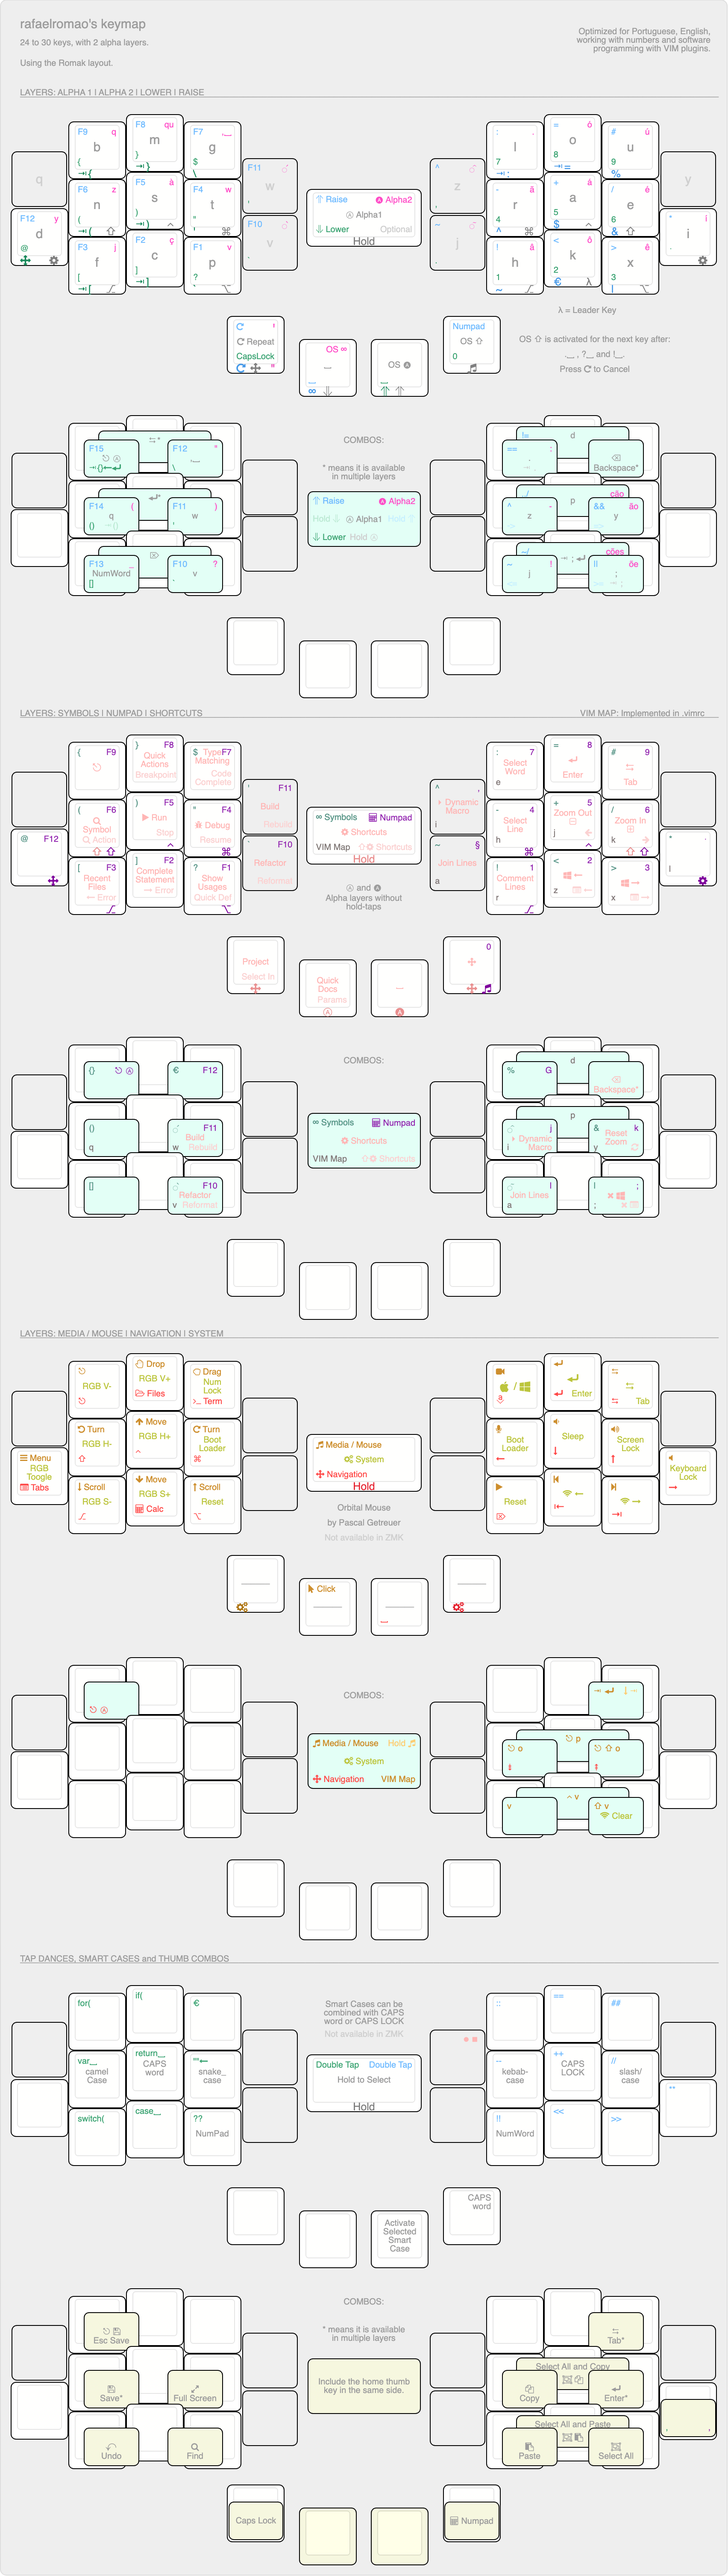
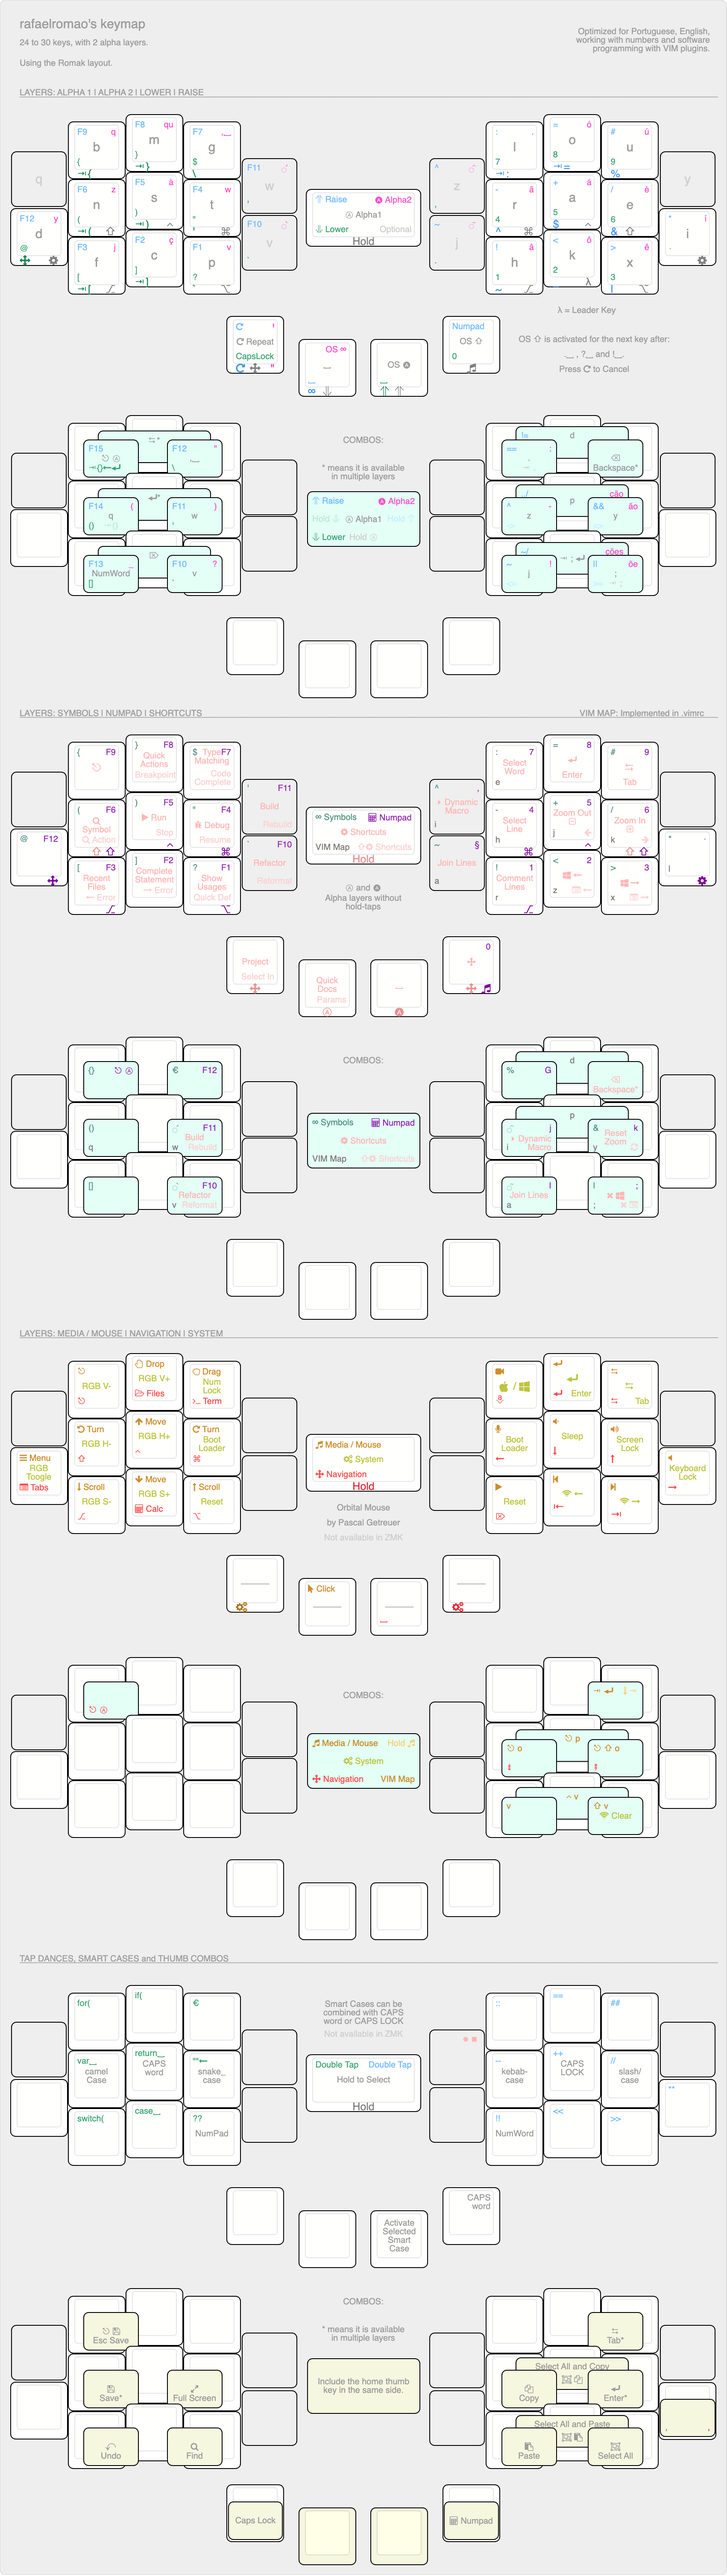
improve symbol layers

diff --git a/src/qmk/users/rafaelromao/config.h b/src/qmk/users/rafaelromao/config.h
@@ -9,6 +9,10 @@
 
 // Configure Orbital Mouse
 #define ORBITAL_MOUSE_RADIUS 63
+#define ORBITAL_MOUSE_SPEED_CURVE \
+    { 24, 24, 24, 32, 58, 66, 80, 90, 100, 110, 120, 110, 100, 90, 80, 66 }
+//     |               |               |               |           |
+// t = 0.000           1.024           2.048           3.072       3.840 s
 
 // Make it easier to work with tap hold
 #define PERMISSIVE_HOLD

diff --git a/src/qmk/users/rafaelromao/features/tapdance.c b/src/qmk/users/rafaelromao/features/tapdance.c
@@ -177,7 +177,7 @@ void td_lt(tap_dance_state_t *state, void *user_data) {
             tap_code16(KC_LT);
             break;
         case TD_SINGLE_HOLD:
-            process_macros(MC_EUR, NULL);
+            tap_code16(KC_UNDS);
             break;
         default:
             break;
